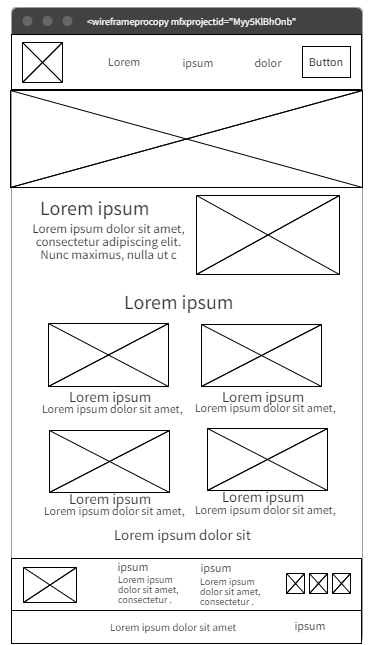
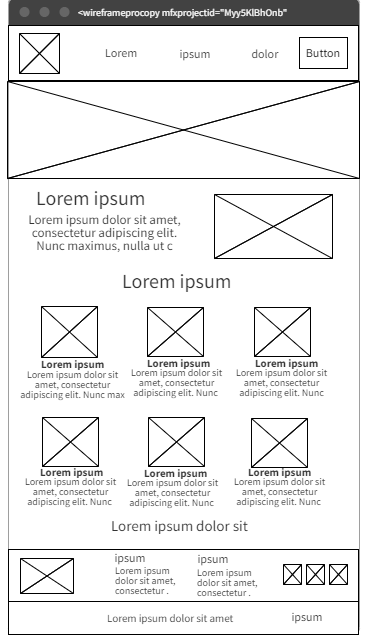
Added html to personal site

Changed region(s): [[0.0, 0.0, 0.9918, 1.0]]

diff --git a/techsupport/services.html b/techsupport/services.html
@@ -1,0 +1,129 @@
+<!DOCTYPE html>
+<html lang="en">
+<head>
+    <meta charset="UTF-8">
+    <meta http-equiv="X-UA-Compatible" content="IE=edge">
+    <meta name="viewport" content="width=device-width, initial-scale=1.0">
+    <title>Neximus|Our Service</title>
+    <link rel="stylesheet" href="styles/style.css">
+</head>
+<body>
+    <div id="content">
+        <header>
+            <a id="logo-link" href="index.html">
+                <img class="logo" src="images/logo.png" alt="Dry Oar Logo">
+            </a>
+            <nav>
+                <a href="index.html">Home</a>
+                <a href="aboutus.html">About</a>
+                <a href="services.html">Services</a>
+                <a href="https://wa.me/+233543257254">Get Support</a>
+            </nav>
+        </header>
+        <div id="services">
+            <div id="services-box">
+                <img id="services-img" src="images/network-lady.jpg" alt="lady">
+            </div>
+            <section id="services-msg">
+                <h1 class="services-title">Services</h1>
+                <h4>Bring ye all thy tech needs unto the house of Crosby. <br>and ye shall served quality and professionally</h4>
+                <img id="cover-img" src="images/cover.png" alt="cover">
+            </section>
+        </div>
+        <main class="home-grid">
+            <div id="background"></div>
+            <h1 class="our-services">Our Services</h1>
+            <section class="support-card">
+                <img class="card-img" src="images/support.jpg" alt="call center image">
+                <h2>IT Support</h2>
+                <p class="services-msg">Almost every company that exists now makes use of technology. If not advanced <br>
+                    technology systems, then it will be simple computer to manage daily activities of the workflow. <br>
+                    Due to certain reasons, most people have also turn to online learning and remote work. We want you <br>
+                    to have the best experience with your computer systems, either at home or your office or your <br>
+                    company. Allow us to set up your computer systems and provide you with the support along the way. <br>
+                    Whatever that is broken, we can fix. <br>
+                </p>
+            </section>
+            <section class="consultation-card">
+                <img class="card-img" src="images/consulting.jpg" alt="consultation">
+                <h2>IT Consultation</h2>
+                <p>
+                    It is obvious that not everyone who owns a business has a deeper knowledge about IT infrastructure. <br>
+                    This is one of the reasons why we exist, to provide you with the necessary guidance from start to <br>
+                    finish. Giving you a clear understanding of how everything needs to be done and measures to put in <br>
+                    place. We provide consultancy in various aspects of technology. These include networking, home <br>
+                    offices, computer systems, apps developments, etc. <br>
+                </p>
+            </section>
+            <section class="web-card">
+                <img class="card-img" src="images/programming.jpg" alt="man programming">
+                <h2>Web Desing and Development</h2>
+                <p>
+                    Almost every company will like to be seen on the World Wide Web. We help you achieve this goal <br>
+                    by designing and creating a fully responsive website for your business or company and manage it for <br> 
+                    you all at a very affordable cost. 
+                </p>
+            </section>
+            <section class="graphic-card">
+                <img class="card-img" src="images/graphic.jpg" alt="graphic design">
+                <h2>Graphic design</h2>
+                <p>
+                    As part of our services, we also specialize in graphic design which includes, flyers, posters, <br>
+                    banners, gift card, invitation card, business cards, 2d and 3d animation, log design, etc. As far as <br>
+                    it is a design, we can do it.
+                </p>
+            </section>
+            <section class="network-card">
+                <img class="card-img" src="images/network-server.jpg" alt="network closet">
+                <h2>Network Administration</h2>
+                <p>
+                    We have network administrators who are ready to come and set up all your company networking systems <br>
+                     and give you experience of smooth communication between different computers. Our services are quality <br>
+                      and we provide you with long lasting setups.
+                </p>
+            </section>
+            <section class="web-card">
+                <img class="card-img" src="images/programming.jpg" alt="man programming">
+                <h2>Software Development</h2>
+                <p>
+                    We also specialize in software development covering mobile application development. We complete all <br>
+                     projects with quality and deliver our work within a short possible time; Time is very precious to us. <br>
+                      Some of our recent projects we completed include school managements systems, hospital managements systems, staff management, finance management. <br>
+                </p>
+            </section>
+            <h3>We can fix anything, just tell us where!</h3>
+        </main>
+        <footer>
+            <div class="locate-us">
+                <img class="footer-logo" src="images/logo.png" alt="Logo">
+                <section>
+                    <img class="icon" src="images/location.png" alt="location icon">
+                    <h4>Locate us</h4>
+                    <p>57 Independence Avenue <br>Cantoments, Accra <br>Ghana</p>
+                </section>
+                <section>
+                    <h4>Contact Us</h4>
+                    <img class="icon" src="images/call.png" alt="call icon"><p>(233) 054-325-7254</p>
+                    <img class="icon" src="images/whatsapp.png" alt="whatsapp icon"><p>(233) 054-325-7254</p>
+                    <img class="icon" src="images/email.png" alt="email icon"><p>crosbyemmanuel490@gmail.com</p>
+                </section>
+            </div>
+            <div class="social">
+                <a href="https://facebook.com" target="_blank">
+                    <img src="images/facebook.png" alt="fb icon">
+                </a>
+                <a href="https://twitter.com" target="_blank">
+                    <img src="images/twitter.png" alt="twitter icon">
+                </a>
+                <a href="https://instagram.com" target="_blank">
+                    <img src="images/instagram.png" alt="instagram icon">
+                </a>
+            </div>
+            <div class="bottom">
+                <h3>&copy; 2022 - Crosby TechSupport</h3>
+                <h3><a href="site-plan.html">Site Plan</a></h3>
+            </div>
+        </footer>
+    </div>
+</body>
+</html>

diff --git a/techsupport/site-plan.html b/techsupport/site-plan.html
@@ -136,18 +136,15 @@
       </h2>
       <h3>Home</h3>
       <p>
-        Neximus tech solutions Inc. has been in existence since 2010, offering a variety of tech services to our client
-         in various locations. We have our headquarters based in Ghana, Accra and have other locations in other parts of the country. 
-         We have fully qualified technicians who are ready to solve all your tech problems. Our solution plan include remote assistance service,
-         which help us to provide our support services online  as well. Our services are offered for almost all kinds of computer devices (computers, mobile devices, network devices etc.) 
-        We also provide secondary services, which include software development, wed design and development, graphic design, training etc. <br>
-        Contact <br> Locate our office: <br>57 Independence Avenue <br>Cantoments, Accra Ghana <br>
-        Telephone: (+233) 543257254 / (+233) 593905949 <br>WhatsApp Us <br> https://wa.me/+233543257254  <br>
-        Send us an email <br>Email: info@crosnet.com 
+        Welcome to Crosby Techsupport, your most reliable support team Contact <br> Locate Us: <br>57 Independence Avenue <br>Cantoments, Accra Ghana <br>
+        Telephone: (+233) 543257254 / (+233) 593905949 <br>WhatsApp Us <br>+233543257254<br>
+        Send us an email <br>Email: crosbyemmanuel490@gmail.com <br>Need help with your computer? <br>Get the support you need from the comfort of your home. We are just a click away; <br> 
+        Our qualified technicians are standing by ready to sort you out.
+        We an fix anything. Just tell us where.
       </p>
       <p>Images for the Home page</p>
-        <img src="images/home-page.jpg" alt="image for homepage">
-        <img src="images/home-2-optimized.jpg" alt="image for homepage">
+        <img src="images/homepage.jpg" alt="image for homepage" width="400" height="400">
+        <img src="images/homepage2.jpg" alt="image for homepage" width="400" height="400">
 
       </ul>
       <h3>About</h3>
@@ -163,15 +160,18 @@
         network from cyber-attacks and solve the problems that arises along the way. Our services are offered for almost all kinds of 
         computer devices (computers, mobile devices, network devices etc.)  We also provide secondary services, 
         which include software development, wed design and development, graphic design, training etc. <br>
-        Our Goal <br>
-        In this modern world, technology is evolving very fast, anyone who makes use of technology needs a support, and we exist to provide them with the support they need. Almost every company makes use of technology nowadays. It goes down to individuals as well. Once you use a laptop at home, you need our help! Let us be your tech friends. Our goal is to provide you with all the help you need to keep your company running smoothly or to achieve your goals.
-        We can fix anything, just tell us where!
+        Why work with us? <br>
+        In this modern world, technology is evolving very fast, anyone who makes use of technology needs technical support. <br> 
+        We use remote assistance technoly to render our support services anywhere and anytime. We have technicians standing by 24/7 <br>
+        ready to be at your service. Our services are very affordable and quality assured. 
+        Once you use a laptop at home, you need our help! Let us be your tech friends. <br>
+       We can fix anything, just tell us where!
         
         
       </p>
       <p>Images for the Page 2</p>
-        <img src="images/about-img.jpg" alt="image for page">
-        <img src="images/consulting-1.jpg" alt="image for page">
+        <img src="images/about-img.jpg" alt="image for page" width="400" height="400">
+        <img src="images/consulting-1.jpg" alt="image for page" width="400" height="400">
 
       </ul>
       <h3>Services</h3>
@@ -184,13 +184,12 @@
          Website Design and Development: Almost every company will like to be seen on the World Wide Web. We help you achieve this goal by designing and creating a fully responsive website for your business or company and manage it for you all at a very affordable cost. <br> 
         Graphic Design: As part of our services, we also specialize in graphic design which includes, flyers, posters, banners, gift card, invitation card, business cards, 2d and 3d animation, log design, etc. As far as it is a design, we can do it. <br>
         Consultation: It is obvious that not everyone who owns a business has a deeper knowledge about IT infrastructure. This is one of the reasons why we exist, to provide you with the necessary guidance from start to finish. Giving you a clear understanding of how everything needs to be done and measures to put in place. We provide consultancy in various aspects of technology. These include networking, home offices, computer systems, apps developments, etc. <br>
-        Training: We also offer training services in specific areas of computing. We do one on one or group training, home training, online and in-person training. <br>
         We can fix it, just show us where!
       </p>
       <p>Images for the Page 3</p>
-        <img src="images/network-server.jpg" alt="image for page3">
-        <img src="images/home-img-optimized.jpg" alt="image for page3">
-        <img src="images/programming.jpg" alt="image for page3">
+        <img src="images/network-server.jpg" alt="image for page3" width="400" height="400">
+        <img src="images/support.jpg" alt="image for page3" width="400" height="400">
+        <img src="images/programming.jpg" alt="image for page3" width="400" height="400">
 
       </ul>
       <hr>

diff --git a/techsupport/index.html b/techsupport/index.html
@@ -1,0 +1,96 @@
+<!DOCTYPE html>
+<html lang="en">
+<head>
+    <meta charset="UTF-8">
+    <meta http-equiv="X-UA-Compatible" content="IE=edge">
+    <meta name="viewport" content="width=device-width, initial-scale=1.0">
+    <title>Neximus|Home</title>
+    <link rel="stylesheet" href="styles/style.css">
+</head>
+<body>
+    <div id="content">
+        <header>
+            <a id="logo-link" href="index.html">
+                <img class="logo" src="images/logo.png" alt="Dry Oar Logo">
+            </a>
+            <nav>
+                <a href="index.html">Home</a>
+                <a href="aboutus.html">About</a>
+                <a href="services.html">Services</a>
+                <a href="https://wa.me/+233543257254">Get Support</a>
+            </nav>
+        </header>
+        <div id="hero">
+            <div id="hero-box">
+                <img id="hero-img" src="images/homepage.jpg" alt="Team of IT support">
+            </div>
+            <section id="hero-msg">
+                <h1 class="home-title">Welcome to Neximus TechSupport</h1>
+                <h4>Your most reliable support team</h4>
+                <div class="button-box">
+                    <a class="book" href="services.html">Get Started</a>
+                </div>
+            </section>
+        </div>
+        <main class="home-grid">
+            <div id="background"></div>
+            <img class="woman" src="images/homepage2.jpg" alt="A woman who struggling with laptop">
+            <section class="msg">
+                <h2>Need help with your computer?</h2>
+                <p>Get the support you need from the comfort of your home. We are just a click away; <br> 
+                    Our qualified technicians are standing by ready to sort you out.
+                    We an fix anything. Just tell us where. 
+                </p>
+                <a class="join" href="https://wa.me/+233543257254">Get Started</a>
+            </section>
+            <h1 class="our-services">Our Services</h1>
+            <section class="support-card">
+                <img class="card-img" src="images/support.jpg" alt="call center image">
+                <h2>IT Support</h2>
+                <a class="learn-more" href="services.html">Learn more</a>
+            </section>
+            <section class="consultation-card">
+                <img class="card-img" src="images/consulting.jpg" alt="consultation">
+                <h2>IT Consultation</h2>
+                <a class="learn-more" href="services.html">Learn more</a>
+            </section>
+            <section class="web-card">
+                <img class="card-img" src="images/programming.jpg" alt="man programming">
+                <h2>Web Desing and Development</h2>
+                <a class="learn-more" href="services.html">Learn more</a>
+            </section>
+        </main>
+        <footer>
+            <div class="locate-us">
+                <img class="footer-logo" src="images/logo.png" alt="Logo">
+                <section>
+                    <img class="icon" src="images/location.png" alt="location icon">
+                    <h4>Locate us</h4>
+                    <p>57 Independence Avenue <br>Cantoments, Accra <br>Ghana</p>
+                </section>
+                <section>
+                    <h4>Contact Us</h4>
+                    <img class="icon" src="images/call.png" alt="call icon"><p>(233) 054-325-7254</p>
+                    <img class="icon" src="images/whatsapp.png" alt="whatsapp icon"><p>(233) 054-325-7254</p>
+                    <img class="icon" src="images/email.png" alt="email icon"><p>crosbyemmanuel490@gmail.com</p>
+                </section>
+            </div>
+            <div class="social">
+                <a href="https://facebook.com" target="_blank">
+                    <img src="images/facebook.png" alt="fb icon">
+                </a>
+                <a href="https://twitter.com" target="_blank">
+                    <img src="images/twitter.png" alt="twitter icon">
+                </a>
+                <a href="https://instagram.com" target="_blank">
+                    <img src="images/instagram.png" alt="instagram icon">
+                </a>
+            </div>
+            <div class="bottom">
+                <h3>&copy; 2022 - Crosby TechSupport</h3>
+                <h3><a href="site-plan.html">Site Plan</a></h3>
+            </div>
+        </footer>
+    </div>
+</body>
+</html>
